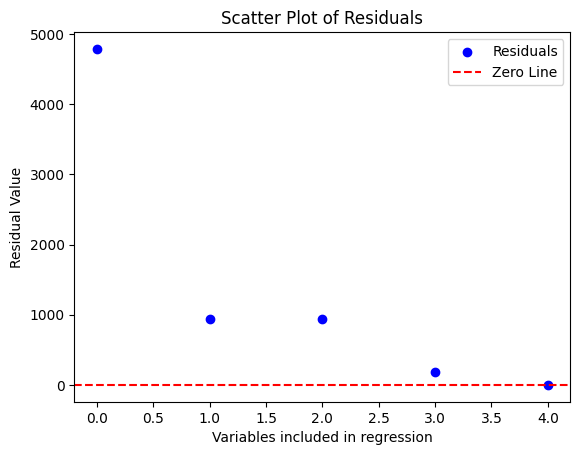
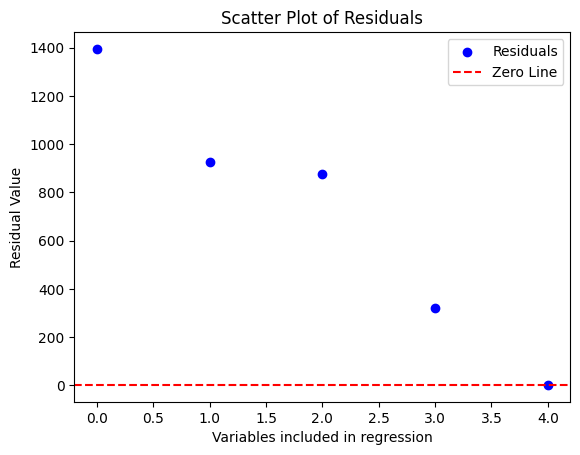
Update documentation

diff --git a/docs/searchindex.js b/docs/searchindex.js
@@ -1,1 +1,1 @@
-Search.setIndex({"alltitles": {"ANOVA": [[8, null]], "ANVOCA": [[8, "ANVOCA"]], "API Reference": [[3, null]], "Comparison with numpy": [[10, "Comparison-with-numpy"]], "Getting started": [[12, null]], "Including/excluding covariates corresponds to sweeping the variable in/out": [[11, "Including/excluding-covariates-corresponds-to-sweeping-the-variable-in/out"]], "Linear Regression": [[10, null]], "MANOVA": [[8, "MANOVA"]], "Module contents": [[6, "module-sweepystats"]], "Numerical linear algebra": [[9, null]], "One way ANOVA": [[8, "One-way-ANOVA"]], "Stepwise regression": [[11, null]], "Submodules": [[6, "submodules"]], "Sweepystats documentation": [[4, null]], "The SweepMatrix class": [[12, "The-SweepMatrix-class"]], "User Guide": [[7, null]], "k-way ANOVA": [[8, "k-way-ANOVA"]], "sweepystats": [[5, null]], "sweepystats package": [[6, null]], "sweepystats.ANOVA": [[3, "sweepystats-anova"]], "sweepystats.anova.ANOVA": [[0, null]], "sweepystats.linreg": [[3, "sweepystats-linreg"]], "sweepystats.linreg module": [[6, "module-sweepystats.linreg"]], "sweepystats.linreg.LinearRegression": [[1, null]], "sweepystats.sweep_matrix": [[3, "sweepystats-sweep-matrix"]], "sweepystats.sweep_matrix module": [[6, "module-sweepystats.sweep_matrix"]], "sweepystats.sweep_matrix.SweepMatrix": [[2, null]]}, "docnames": ["api_reference/generated/sweepystats.anova.ANOVA", "api_reference/generated/sweepystats.linreg.LinearRegression", "api_reference/generated/sweepystats.sweep_matrix.SweepMatrix", "api_reference/index", "index", "source/modules", "source/sweepystats", "user_guide/index", "user_guide/notebooks/anova", "user_guide/notebooks/linalg", "user_guide/notebooks/linreg", "user_guide/notebooks/stepreg", "user_guide/notebooks/sweepy"], "envversion": {"nbsphinx": 4, "sphinx": 64, "sphinx.domains.c": 3, "sphinx.domains.changeset": 1, "sphinx.domains.citation": 1, "sphinx.domains.cpp": 9, "sphinx.domains.index": 1, "sphinx.domains.javascript": 3, "sphinx.domains.math": 2, "sphinx.domains.python": 4, "sphinx.domains.rst": 2, "sphinx.domains.std": 2}, "filenames": ["api_reference/generated/sweepystats.anova.ANOVA.rst", "api_reference/generated/sweepystats.linreg.LinearRegression.rst", "api_reference/generated/sweepystats.sweep_matrix.SweepMatrix.rst", "api_reference/index.rst", "index.rst", "source/modules.rst", "source/sweepystats.rst", "user_guide/index.rst", "user_guide/notebooks/anova.ipynb", "user_guide/notebooks/linalg.ipynb", "user_guide/notebooks/linreg.ipynb", "user_guide/notebooks/stepreg.ipynb", "user_guide/notebooks/sweepy.ipynb"], "indexentries": {"__init__() (sweepystats.anova.anova method)": [[0, "sweepystats.anova.ANOVA.__init__", false]], "__init__() (sweepystats.linreg.linearregression method)": [[1, "sweepystats.linreg.LinearRegression.__init__", false]], "__init__() (sweepystats.sweep_matrix.sweepmatrix method)": [[2, "sweepystats.sweep_matrix.SweepMatrix.__init__", false]], "anova (class in sweepystats)": [[6, "sweepystats.ANOVA", false]], "anova (class in sweepystats.anova)": [[0, "sweepystats.anova.ANOVA", false]], "coef() (sweepystats.linearregression method)": [[6, "sweepystats.LinearRegression.coef", false]], "coef() (sweepystats.linreg.linearregression method)": [[6, "sweepystats.linreg.LinearRegression.coef", false]], "coef_std() (sweepystats.linearregression method)": [[6, "sweepystats.LinearRegression.coef_std", false]], "coef_std() (sweepystats.linreg.linearregression method)": [[6, "sweepystats.linreg.LinearRegression.coef_std", false]], "cov() (sweepystats.linearregression method)": [[6, "sweepystats.LinearRegression.cov", false]], "cov() (sweepystats.linreg.linearregression method)": [[6, "sweepystats.linreg.LinearRegression.cov", false]], "det() (sweepystats.sweep_matrix.sweepmatrix method)": [[6, "sweepystats.sweep_matrix.SweepMatrix.det", false]], "det() (sweepystats.sweepmatrix method)": [[6, "sweepystats.SweepMatrix.det", false]], "dtype (sweepystats.sweep_matrix.sweepmatrix property)": [[6, "sweepystats.sweep_matrix.SweepMatrix.dtype", false]], "dtype (sweepystats.sweepmatrix property)": [[6, "sweepystats.SweepMatrix.dtype", false]], "exclude_k() (sweepystats.linearregression method)": [[6, "sweepystats.LinearRegression.exclude_k", false]], "exclude_k() (sweepystats.linreg.linearregression method)": [[6, "sweepystats.linreg.LinearRegression.exclude_k", false]], "f_statistic() (sweepystats.anova method)": [[6, "sweepystats.ANOVA.f_statistic", false]], "fit() (sweepystats.anova method)": [[6, "sweepystats.ANOVA.fit", false]], "fit() (sweepystats.linearregression method)": [[6, "sweepystats.LinearRegression.fit", false]], "fit() (sweepystats.linreg.linearregression method)": [[6, "sweepystats.linreg.LinearRegression.fit", false]], "include_k() (sweepystats.linearregression method)": [[6, "sweepystats.LinearRegression.include_k", false]], "include_k() (sweepystats.linreg.linearregression method)": [[6, "sweepystats.linreg.LinearRegression.include_k", false]], "is_fitted() (sweepystats.linearregression method)": [[6, "sweepystats.LinearRegression.is_fitted", false]], "is_fitted() (sweepystats.linreg.linearregression method)": [[6, "sweepystats.linreg.LinearRegression.is_fitted", false]], "isposdef() (sweepystats.sweep_matrix.sweepmatrix method)": [[6, "sweepystats.sweep_matrix.SweepMatrix.isposdef", false]], "isposdef() (sweepystats.sweepmatrix method)": [[6, "sweepystats.SweepMatrix.isposdef", false]], "linearregression (class in sweepystats)": [[6, "sweepystats.LinearRegression", false]], "linearregression (class in sweepystats.linreg)": [[1, "sweepystats.linreg.LinearRegression", false], [6, "sweepystats.linreg.LinearRegression", false]], "mem_layout (sweepystats.sweep_matrix.sweepmatrix property)": [[6, "sweepystats.sweep_matrix.SweepMatrix.mem_layout", false]], "mem_layout (sweepystats.sweepmatrix property)": [[6, "sweepystats.SweepMatrix.mem_layout", false]], "module": [[6, "module-sweepystats", false], [6, "module-sweepystats.linreg", false], [6, "module-sweepystats.sweep_matrix", false]], "ndim (sweepystats.sweep_matrix.sweepmatrix property)": [[6, "sweepystats.sweep_matrix.SweepMatrix.ndim", false]], "ndim (sweepystats.sweepmatrix property)": [[6, "sweepystats.SweepMatrix.ndim", false]], "p_value() (sweepystats.anova method)": [[6, "sweepystats.ANOVA.p_value", false]], "r2() (sweepystats.linearregression method)": [[6, "sweepystats.LinearRegression.R2", false]], "r2() (sweepystats.linreg.linearregression method)": [[6, "sweepystats.linreg.LinearRegression.R2", false]], "resid() (sweepystats.linearregression method)": [[6, "sweepystats.LinearRegression.resid", false]], "resid() (sweepystats.linreg.linearregression method)": [[6, "sweepystats.linreg.LinearRegression.resid", false]], "shape (sweepystats.sweep_matrix.sweepmatrix property)": [[6, "sweepystats.sweep_matrix.SweepMatrix.shape", false]], "shape (sweepystats.sweepmatrix property)": [[6, "sweepystats.SweepMatrix.shape", false]], "sigma2() (sweepystats.linearregression method)": [[6, "sweepystats.LinearRegression.sigma2", false]], "sigma2() (sweepystats.linreg.linearregression method)": [[6, "sweepystats.linreg.LinearRegression.sigma2", false]], "size (sweepystats.sweep_matrix.sweepmatrix property)": [[6, "sweepystats.sweep_matrix.SweepMatrix.size", false]], "size (sweepystats.sweepmatrix property)": [[6, "sweepystats.SweepMatrix.size", false]], "sum_sq() (sweepystats.anova method)": [[6, "sweepystats.ANOVA.sum_sq", false]], "sweep() (sweepystats.sweep_matrix.sweepmatrix method)": [[6, "sweepystats.sweep_matrix.SweepMatrix.sweep", false]], "sweep() (sweepystats.sweepmatrix method)": [[6, "sweepystats.SweepMatrix.sweep", false]], "sweep_k() (sweepystats.sweep_matrix.sweepmatrix method)": [[6, "sweepystats.sweep_matrix.SweepMatrix.sweep_k", false]], "sweep_k() (sweepystats.sweepmatrix method)": [[6, "sweepystats.SweepMatrix.sweep_k", false]], "sweepmatrix (class in sweepystats)": [[6, "sweepystats.SweepMatrix", false]], "sweepmatrix (class in sweepystats.sweep_matrix)": [[2, "sweepystats.sweep_matrix.SweepMatrix", false], [6, "sweepystats.sweep_matrix.SweepMatrix", false]], "sweepystats": [[6, "module-sweepystats", false]], "sweepystats.linreg": [[6, "module-sweepystats.linreg", false]], "sweepystats.sweep_matrix": [[6, "module-sweepystats.sweep_matrix", false]]}, "objects": {"": [[6, 0, 0, "-", "sweepystats"]], "sweepystats": [[6, 1, 1, "", "ANOVA"], [6, 1, 1, "", "LinearRegression"], [6, 1, 1, "", "SweepMatrix"], [6, 0, 0, "-", "linreg"], [6, 0, 0, "-", "sweep_matrix"]], "sweepystats.ANOVA": [[6, 2, 1, "", "f_statistic"], [6, 2, 1, "", "fit"], [6, 2, 1, "", "p_value"], [6, 2, 1, "", "sum_sq"]], "sweepystats.LinearRegression": [[6, 2, 1, "", "R2"], [6, 2, 1, "", "coef"], [6, 2, 1, "", "coef_std"], [6, 2, 1, "", "cov"], [6, 2, 1, "", "exclude_k"], [6, 2, 1, "", "fit"], [6, 2, 1, "", "include_k"], [6, 2, 1, "", "is_fitted"], [6, 2, 1, "", "resid"], [6, 2, 1, "", "sigma2"]], "sweepystats.SweepMatrix": [[6, 2, 1, "", "det"], [6, 3, 1, "", "dtype"], [6, 2, 1, "", "isposdef"], [6, 3, 1, "", "mem_layout"], [6, 3, 1, "", "ndim"], [6, 3, 1, "", "shape"], [6, 3, 1, "", "size"], [6, 2, 1, "", "sweep"], [6, 2, 1, "", "sweep_k"]], "sweepystats.anova": [[0, 1, 1, "", "ANOVA"]], "sweepystats.anova.ANOVA": [[0, 2, 1, "", "__init__"]], "sweepystats.linreg": [[6, 1, 1, "", "LinearRegression"]], "sweepystats.linreg.LinearRegression": [[6, 2, 1, "", "R2"], [1, 2, 1, "", "__init__"], [6, 2, 1, "", "coef"], [6, 2, 1, "", "coef_std"], [6, 2, 1, "", "cov"], [6, 2, 1, "", "exclude_k"], [6, 2, 1, "", "fit"], [6, 2, 1, "", "include_k"], [6, 2, 1, "", "is_fitted"], [6, 2, 1, "", "resid"], [6, 2, 1, "", "sigma2"]], "sweepystats.sweep_matrix": [[6, 1, 1, "", "SweepMatrix"]], "sweepystats.sweep_matrix.SweepMatrix": [[2, 2, 1, "", "__init__"], [6, 2, 1, "", "det"], [6, 3, 1, "", "dtype"], [6, 2, 1, "", "isposdef"], [6, 3, 1, "", "mem_layout"], [6, 3, 1, "", "ndim"], [6, 3, 1, "", "shape"], [6, 3, 1, "", "size"], [6, 2, 1, "", "sweep"], [6, 2, 1, "", "sweep_k"]]}, "objnames": {"0": ["py", "module", "Python module"], "1": ["py", "class", "Python class"], "2": ["py", "method", "Python method"], "3": ["py", "property", "Python property"]}, "objtypes": {"0": "py:module", "1": "py:class", "2": "py:method", "3": "py:property"}, "terms": {"": [8, 9, 10, 12], "0": [4, 6, 8, 9, 10, 11, 12], "00": [8, 9, 10, 12], "00000000e": 12, "0001": 9, "00143833": 10, "00144217": 10, "00208484": 10, "00323325": 10, "00344722": 10, "00358656": 10, "00937511174625582": 11, "01": 12, "02": 12, "02886888": 10, "05": 8, "05686169": 10, "05871306": 10, "05988785": 10, "07984562357182773": 8, "079846": 8, "09983632": 10, "1": [8, 9, 10, 11, 12], "10": [9, 10, 11, 12], "100": [8, 9, 10], "11": [8, 10], "11111111e": 12, "12": [10, 11], "12265": 9, "12it": 9, "13": [8, 11], "131277": 9, "139117841711": 11, "14": 8, "145383": 9, "15": 8, "15it": 9, "17": 12, "1979": 10, "2": [6, 8, 9, 10, 11, 12], "20": [8, 11], "2025": 11, "209628882323652e": 11, "213333": 8, "2133333333333334": 8, "25": 11, "2520": 8, "2716904": 10, "29": 11, "2d": [2, 6], "2nd": 11, "3": [8, 9, 10, 11, 12], "31": 11, "3306": 10, "368889": 8, "39532418": 10, "3953241840840747": 10, "4": [8, 9, 10, 11, 12], "43543728": 11, "452513415087515e": 11, "463333": 8, "4790": 11, "48it": 9, "4th": 11, "5": [8, 9, 10, 11, 12], "53": 8, "5th": 11, "6": [4, 8, 9, 10, 11, 12], "62it": 8, "64106051": 11, "66666667e": 12, "67901235e": 12, "7": [8, 10, 11, 12], "70370370e": 12, "72690962": 11, "743393955410443e": 11, "8": [8, 10, 12], "8129989461707008": 11, "85722573e": 12, "9": [10, 12], "926667": 8, "94it": 10, "966867": 8, "966867469879485": 8, "9969400431529486": 10, "A": [0, 1, 2, 6, 8, 9, 11, 12], "For": [8, 10, 11], "If": [6, 8], "NOT": 11, "No": 12, "One": 7, "The": [2, 4, 6, 7, 8, 9, 10, 11], "To": [4, 8], "_": 10, "__init__": [0, 1, 2], "a_numpi": 12, "absorpt": 10, "accept": 8, "ad": 11, "adet": 9, "after": 11, "against": 11, "agre": 10, "ainv": 9, "akk": 12, "algebra": 7, "all": [6, 12], "allclos": 9, "alloc": 9, "alpha": 8, "alreadi": 12, "also": 12, "an": [4, 8, 9, 10, 11], "analysi": 11, "anova": [5, 6, 7], "anova_lm": 8, "anova_t": 8, "answer": [9, 10], "anvoca": 7, "api": [4, 8], "append": 11, "ar": [9, 11], "arang": 11, "arrai": [2, 6, 9, 10, 11, 12], "associ": 6, "attribut": 2, "axhlin": 11, "b": [6, 8], "background": 4, "backward": 12, "bar": 6, "base": [0, 1, 6], "beauti": 11, "becaus": [11, 12], "been": 6, "befor": [6, 12], "being": [6, 8], "beta": [6, 10, 11], "beta_cov": 10, "beta_std": 10, "between": 8, "bla": 12, "bless": 12, "blue": 11, "boldsymbol": 11, "built": 10, "c": 8, "call": 12, "can": [8, 10, 11, 12], "cannot": 12, "categor": 8, "causal": 11, "chang": 12, "check": [6, 9, 10], "choic": 11, "choleski": 9, "chosen": 11, "class": [0, 1, 2, 4, 6, 7, 10, 11], "coef": [5, 6, 10], "coef_std": [5, 6, 10], "coeffici": [6, 10, 11], "col": 6, "color": 11, "column": [2, 6, 9, 12], "common": 11, "compar": 11, "comparison": 7, "comprehens": 4, "compupt": 6, "comput": [6, 9, 10], "concept": 10, "conceptu": 10, "conduct": 8, "consid": 8, "contain": [0, 4, 6], "content": 5, "convert": [9, 12], "copi": [2, 6, 12], "correct": [9, 11], "correspond": 7, "cost": 9, "cov": [5, 6, 10], "covari": [0, 6, 7, 10], "darrai": 12, "data": [8, 9, 10, 11, 12], "datafram": [0, 6, 8], "def": 9, "default": 9, "defin": [0, 6], "definit": [6, 9], "depth": 4, "descript": 4, "det": [5, 6, 9], "detail": [4, 11], "determin": [6, 9, 10, 11], "deviat": [6, 10], "df": [0, 6, 8], "diag": [9, 10], "diagon": 12, "differ": 8, "difficult": 10, "displai": 6, "divid": 12, "do": [8, 11], "doe": [8, 11], "doesn": 10, "doubl": [2, 6, 9, 12], "dtype": [5, 6], "e": [0, 6, 8, 11], "each": [6, 8, 10], "effect": [8, 10, 11], "eig": 9, "eigenvalu": 9, "eigmin": 9, "either": 8, "element": 12, "encount": 11, "entir": [6, 11], "entri": 12, "error": 6, "estim": [6, 10], "eval": 9, "evec": 9, "exactli": 12, "examin": 11, "exampl": [8, 11], "exclud": [6, 7], "exclude_k": [5, 6], "explain": 10, "explan": 11, "explor": 11, "extract": [8, 10], "extrem": 10, "f": [6, 8, 9, 11, 12], "f_stat": 11, "f_statist": [5, 6, 8], "f_test": 11, "factor": [0, 6, 8], "fals": [6, 9, 11, 12], "first": 11, "fit": [5, 6, 8, 10, 11], "float": 9, "float64": [8, 10, 11], "flop": 9, "follow": [8, 9, 10, 11], "forc": [6, 9], "form": [10, 11], "format": 12, "formula": [0, 6, 8], "fortran": [2, 6], "forward": 12, "free": 9, "from": [8, 11, 12], "function": [4, 11], "g": [0, 6], "gener": [10, 11], "get": 7, "good": 11, "goodnight": 10, "group": [0, 6, 8], "gt": 8, "guid": 4, "h_k": 11, "ha": [9, 11], "hat": [6, 10, 11], "have": [6, 8, 10], "here": [8, 10], "how": [4, 11], "hypothesi": [8, 11], "i": [2, 4, 6, 8, 9, 10, 11, 12], "identifi": 11, "illustr": 8, "implement": [10, 11], "impli": 12, "import": [8, 9, 10, 11, 12], "improv": 11, "includ": [4, 6, 7], "include_k": [5, 6, 11], "inequ": 6, "inf": 9, "influenc": 11, "input": 12, "instanc": [10, 11], "instead": 11, "intanti": 12, "intern": 12, "introduct": 4, "inv": [6, 9, 10, 12], "invers": [6, 9, 10, 12], "is_fit": [5, 6], "isn": 11, "isposdef": [5, 6, 9], "issu": 4, "ith": 11, "its": 11, "jame": 10, "just": 11, "k": [0, 6, 7, 11, 12], "kind": 11, "know": 8, "kth": [6, 11, 12], "label": 11, "latter": 12, "least": [6, 8, 10], "legend": 11, "let": [10, 11], "level": [8, 12], "linalg": [9, 10], "line": 11, "linear": [1, 6, 7], "linearregress": [5, 6, 10, 11], "linestyl": 11, "link": 4, "linreg": 5, "list": 4, "lstsq": 10, "lt": [8, 9, 10], "mainli": 11, "major": [2, 6, 9, 12], "manova": 7, "manual": 10, "mathbf": 11, "mathemat": 4, "matplotlib": 11, "matric": [4, 12], "matrix": [6, 9, 12], "mean": 8, "mean_sq": 8, "mem_layout": [5, 6], "method": [0, 1, 2, 10, 11], "minimum": 9, "model": [0, 6, 8, 10, 11], "modifi": 12, "modul": 5, "more": 11, "mu_a": 8, "mu_b": 8, "mu_c": 8, "much": 10, "multipl": 11, "must": 12, "n": [9, 10, 11], "nan": 8, "ndim": [5, 6], "need": 9, "neg": 9, "none": [2, 6], "normal": [10, 11], "notat": 10, "note": 6, "now": 8, "np": [8, 9, 10, 11, 12], "null": 8, "number": 11, "numer": [7, 12], "numpi": [2, 4, 6, 7, 8, 9, 11, 12], "object": 6, "ol": [8, 10, 11], "one": [8, 11], "one_wai": 8, "onli": [6, 11], "oper": [0, 1, 4, 6, 9, 10, 11, 12], "order": [9, 12], "origin": [2, 6, 9, 12], "out": 7, "outcom": [0, 6, 8], "over": [2, 6, 12], "p": [8, 10, 11], "p_valu": [5, 6, 8], "packag": [4, 5, 10], "pair": 8, "panda": [0, 6, 8], "paramet": [0, 6, 10], "patsi": 8, "pd": [8, 9], "perform": [0, 1, 4, 6, 8], "place": 9, "plot": 11, "plt": 11, "posit": [6, 9], "post": 11, "pr": 8, "precis": [2, 6, 9, 12], "print": 11, "problem": 11, "process": 10, "progress": 6, "properti": [6, 11], "provid": 4, "psd": 9, "pval": 11, "pyplot": 11, "qr": 10, "question": 11, "r": 10, "r2": [5, 6, 10], "rand": 9, "randn": 11, "random": [9, 10, 11], "random_symmetric_matrix": 9, "randomli": 11, "rang": 11, "rather": 10, "re": 11, "read": 6, "recal": 9, "recov": 12, "red": 11, "reduc": 11, "redund": 11, "refer": 4, "regress": [1, 6, 7], "reject": 8, "relev": 4, "replac": 11, "repositori": 4, "reproduc": 11, "requir": [11, 12], "resid": [5, 6, 10, 11], "residu": [6, 8, 10, 11], "respons": 11, "restor": [6, 9], "result": [10, 11], "return": [6, 9], "row": [6, 12], "same": 9, "sampl": [8, 10, 11], "save": 11, "scatter": 11, "see": 11, "seed": 11, "seem": 11, "select": 11, "set": 8, "shape": [5, 6], "should": [9, 11], "show": 11, "sigma": 6, "sigma2": [5, 6, 10], "signific": [8, 11], "significantli": 11, "simpl": [8, 11], "simul": [9, 10, 11], "size": [5, 6, 9, 10, 11], "sm": 8, "so": [10, 11], "solut": 10, "some": [10, 11], "sourc": 4, "specifi": 8, "sqrt": 10, "squar": [6, 10, 11], "stackexchang": 11, "standard": [6, 10], "start": 7, "stat": 8, "statist": [4, 6, 8, 10, 11], "statsmodel": 8, "std": 10, "stepwis": 7, "storag": [2, 6], "store": [2, 6, 12], "strict": [6, 9], "string": [0, 6], "style": [2, 6], "submodul": 5, "sum": [6, 10, 11], "sum_sq": [5, 6, 8], "support": 9, "suppos": 8, "sw": [8, 9, 10, 11, 12], "sweep": [0, 1, 4, 5, 6, 7, 9, 10, 12], "sweep_k": [5, 6, 12], "sweep_matrix": 5, "sweepmatrix": [5, 6, 7, 9], "sweepystat": [8, 9, 10, 11, 12], "swept": [6, 12], "symmetr": [4, 6, 9, 12], "t": [9, 10, 11], "techniqu": 10, "term": 10, "test": [8, 10, 11], "th": [6, 11, 12], "thei": [4, 11], "them": 10, "thi": [8, 9, 10, 11, 12], "thin": [2, 6, 12], "through": 12, "time": 11, "titl": 11, "todo": 8, "tool": [10, 11], "tracker": 4, "triangl": 6, "true": [6, 9, 10, 11, 12], "try": 11, "typ": 8, "type": 8, "understand": 10, "unless": 6, "untouch": [6, 9], "unweep": 12, "upper": 6, "us": [4, 11], "usag": 4, "user": 4, "valid": 11, "valu": [6, 8, 11], "var": [6, 10], "variabl": [6, 7, 8], "varianc": 6, "verbos": [6, 9, 12], "version": 4, "visual": 11, "wai": [0, 6, 7], "want": [8, 11], "warn": [11, 12], "we": [6, 8, 10, 11, 12], "well": 4, "what": 10, "where": 9, "whether": [6, 8, 10, 11], "which": [8, 12], "within": 6, "without": 10, "work": [4, 11], "wrapper": [2, 6, 12], "x": [1, 6, 8, 10, 11], "xlabel": 11, "y": [0, 1, 6, 8, 10, 11], "yhat": 6, "ylabel": 11, "you": 11, "zero": 11}, "titles": ["sweepystats.anova.ANOVA", "sweepystats.linreg.LinearRegression", "sweepystats.sweep_matrix.SweepMatrix", "API Reference", "Sweepystats documentation", "sweepystats", "sweepystats package", "User Guide", "ANOVA", "Numerical linear algebra", "Linear Regression", "Stepwise regression", "Getting started"], "titleterms": {"One": 8, "The": 12, "algebra": 9, "anova": [0, 3, 8], "anvoca": 8, "api": 3, "class": 12, "comparison": 10, "content": 6, "correspond": 11, "covari": 11, "document": 4, "exclud": 11, "get": 12, "guid": 7, "includ": 11, "k": 8, "linear": [9, 10], "linearregress": 1, "linreg": [1, 3, 6], "manova": 8, "modul": 6, "numer": 9, "numpi": 10, "out": 11, "packag": 6, "refer": 3, "regress": [10, 11], "start": 12, "stepwis": 11, "submodul": 6, "sweep": 11, "sweep_matrix": [2, 3, 6], "sweepmatrix": [2, 12], "sweepystat": [0, 1, 2, 3, 4, 5, 6], "user": 7, "variabl": 11, "wai": 8}})
+Search.setIndex({"alltitles": {"ANOVA": [[8, null]], "ANVOCA": [[8, "ANVOCA"]], "API Reference": [[3, null]], "Comparison with numpy": [[10, "Comparison-with-numpy"]], "Getting started": [[12, null]], "Including/excluding covariates corresponds to sweeping the variable in/out": [[11, "Including/excluding-covariates-corresponds-to-sweeping-the-variable-in/out"]], "Linear Regression": [[10, null]], "MANOVA": [[8, "MANOVA"]], "Module contents": [[6, "module-sweepystats"]], "Numerical linear algebra": [[9, null]], "One way ANOVA": [[8, "One-way-ANOVA"]], "Stepwise regression": [[11, null]], "Submodules": [[6, "submodules"]], "Sweepystats documentation": [[4, null]], "The SweepMatrix class": [[12, "The-SweepMatrix-class"]], "User Guide": [[7, null]], "k-way ANOVA": [[8, "k-way-ANOVA"]], "sweepystats": [[5, null]], "sweepystats package": [[6, null]], "sweepystats.ANOVA": [[3, "sweepystats-anova"]], "sweepystats.anova.ANOVA": [[0, null]], "sweepystats.linreg": [[3, "sweepystats-linreg"]], "sweepystats.linreg module": [[6, "module-sweepystats.linreg"]], "sweepystats.linreg.LinearRegression": [[1, null]], "sweepystats.sweep_matrix": [[3, "sweepystats-sweep-matrix"]], "sweepystats.sweep_matrix module": [[6, "module-sweepystats.sweep_matrix"]], "sweepystats.sweep_matrix.SweepMatrix": [[2, null]]}, "docnames": ["api_reference/generated/sweepystats.anova.ANOVA", "api_reference/generated/sweepystats.linreg.LinearRegression", "api_reference/generated/sweepystats.sweep_matrix.SweepMatrix", "api_reference/index", "index", "source/modules", "source/sweepystats", "user_guide/index", "user_guide/notebooks/anova", "user_guide/notebooks/linalg", "user_guide/notebooks/linreg", "user_guide/notebooks/stepreg", "user_guide/notebooks/sweepy"], "envversion": {"nbsphinx": 4, "sphinx": 64, "sphinx.domains.c": 3, "sphinx.domains.changeset": 1, "sphinx.domains.citation": 1, "sphinx.domains.cpp": 9, "sphinx.domains.index": 1, "sphinx.domains.javascript": 3, "sphinx.domains.math": 2, "sphinx.domains.python": 4, "sphinx.domains.rst": 2, "sphinx.domains.std": 2}, "filenames": ["api_reference/generated/sweepystats.anova.ANOVA.rst", "api_reference/generated/sweepystats.linreg.LinearRegression.rst", "api_reference/generated/sweepystats.sweep_matrix.SweepMatrix.rst", "api_reference/index.rst", "index.rst", "source/modules.rst", "source/sweepystats.rst", "user_guide/index.rst", "user_guide/notebooks/anova.ipynb", "user_guide/notebooks/linalg.ipynb", "user_guide/notebooks/linreg.ipynb", "user_guide/notebooks/stepreg.ipynb", "user_guide/notebooks/sweepy.ipynb"], "indexentries": {"__init__() (sweepystats.anova.anova method)": [[0, "sweepystats.anova.ANOVA.__init__", false]], "__init__() (sweepystats.linreg.linearregression method)": [[1, "sweepystats.linreg.LinearRegression.__init__", false]], "__init__() (sweepystats.sweep_matrix.sweepmatrix method)": [[2, "sweepystats.sweep_matrix.SweepMatrix.__init__", false]], "anova (class in sweepystats)": [[6, "sweepystats.ANOVA", false]], "anova (class in sweepystats.anova)": [[0, "sweepystats.anova.ANOVA", false]], "coef() (sweepystats.linearregression method)": [[6, "sweepystats.LinearRegression.coef", false]], "coef() (sweepystats.linreg.linearregression method)": [[6, "sweepystats.linreg.LinearRegression.coef", false]], "coef_std() (sweepystats.linearregression method)": [[6, "sweepystats.LinearRegression.coef_std", false]], "coef_std() (sweepystats.linreg.linearregression method)": [[6, "sweepystats.linreg.LinearRegression.coef_std", false]], "cov() (sweepystats.linearregression method)": [[6, "sweepystats.LinearRegression.cov", false]], "cov() (sweepystats.linreg.linearregression method)": [[6, "sweepystats.linreg.LinearRegression.cov", false]], "det() (sweepystats.sweep_matrix.sweepmatrix method)": [[6, "sweepystats.sweep_matrix.SweepMatrix.det", false]], "det() (sweepystats.sweepmatrix method)": [[6, "sweepystats.SweepMatrix.det", false]], "dtype (sweepystats.sweep_matrix.sweepmatrix property)": [[6, "sweepystats.sweep_matrix.SweepMatrix.dtype", false]], "dtype (sweepystats.sweepmatrix property)": [[6, "sweepystats.SweepMatrix.dtype", false]], "exclude_k() (sweepystats.linearregression method)": [[6, "sweepystats.LinearRegression.exclude_k", false]], "exclude_k() (sweepystats.linreg.linearregression method)": [[6, "sweepystats.linreg.LinearRegression.exclude_k", false]], "f_statistic() (sweepystats.anova method)": [[6, "sweepystats.ANOVA.f_statistic", false]], "fit() (sweepystats.anova method)": [[6, "sweepystats.ANOVA.fit", false]], "fit() (sweepystats.linearregression method)": [[6, "sweepystats.LinearRegression.fit", false]], "fit() (sweepystats.linreg.linearregression method)": [[6, "sweepystats.linreg.LinearRegression.fit", false]], "include_k() (sweepystats.linearregression method)": [[6, "sweepystats.LinearRegression.include_k", false]], "include_k() (sweepystats.linreg.linearregression method)": [[6, "sweepystats.linreg.LinearRegression.include_k", false]], "is_fitted() (sweepystats.linearregression method)": [[6, "sweepystats.LinearRegression.is_fitted", false]], "is_fitted() (sweepystats.linreg.linearregression method)": [[6, "sweepystats.linreg.LinearRegression.is_fitted", false]], "isposdef() (sweepystats.sweep_matrix.sweepmatrix method)": [[6, "sweepystats.sweep_matrix.SweepMatrix.isposdef", false]], "isposdef() (sweepystats.sweepmatrix method)": [[6, "sweepystats.SweepMatrix.isposdef", false]], "linearregression (class in sweepystats)": [[6, "sweepystats.LinearRegression", false]], "linearregression (class in sweepystats.linreg)": [[1, "sweepystats.linreg.LinearRegression", false], [6, "sweepystats.linreg.LinearRegression", false]], "mem_layout (sweepystats.sweep_matrix.sweepmatrix property)": [[6, "sweepystats.sweep_matrix.SweepMatrix.mem_layout", false]], "mem_layout (sweepystats.sweepmatrix property)": [[6, "sweepystats.SweepMatrix.mem_layout", false]], "module": [[6, "module-sweepystats", false], [6, "module-sweepystats.linreg", false], [6, "module-sweepystats.sweep_matrix", false]], "ndim (sweepystats.sweep_matrix.sweepmatrix property)": [[6, "sweepystats.sweep_matrix.SweepMatrix.ndim", false]], "ndim (sweepystats.sweepmatrix property)": [[6, "sweepystats.SweepMatrix.ndim", false]], "p_value() (sweepystats.anova method)": [[6, "sweepystats.ANOVA.p_value", false]], "r2() (sweepystats.linearregression method)": [[6, "sweepystats.LinearRegression.R2", false]], "r2() (sweepystats.linreg.linearregression method)": [[6, "sweepystats.linreg.LinearRegression.R2", false]], "resid() (sweepystats.linearregression method)": [[6, "sweepystats.LinearRegression.resid", false]], "resid() (sweepystats.linreg.linearregression method)": [[6, "sweepystats.linreg.LinearRegression.resid", false]], "shape (sweepystats.sweep_matrix.sweepmatrix property)": [[6, "sweepystats.sweep_matrix.SweepMatrix.shape", false]], "shape (sweepystats.sweepmatrix property)": [[6, "sweepystats.SweepMatrix.shape", false]], "sigma2() (sweepystats.linearregression method)": [[6, "sweepystats.LinearRegression.sigma2", false]], "sigma2() (sweepystats.linreg.linearregression method)": [[6, "sweepystats.linreg.LinearRegression.sigma2", false]], "size (sweepystats.sweep_matrix.sweepmatrix property)": [[6, "sweepystats.sweep_matrix.SweepMatrix.size", false]], "size (sweepystats.sweepmatrix property)": [[6, "sweepystats.SweepMatrix.size", false]], "sum_sq() (sweepystats.anova method)": [[6, "sweepystats.ANOVA.sum_sq", false]], "sweep() (sweepystats.sweep_matrix.sweepmatrix method)": [[6, "sweepystats.sweep_matrix.SweepMatrix.sweep", false]], "sweep() (sweepystats.sweepmatrix method)": [[6, "sweepystats.SweepMatrix.sweep", false]], "sweep_k() (sweepystats.sweep_matrix.sweepmatrix method)": [[6, "sweepystats.sweep_matrix.SweepMatrix.sweep_k", false]], "sweep_k() (sweepystats.sweepmatrix method)": [[6, "sweepystats.SweepMatrix.sweep_k", false]], "sweepmatrix (class in sweepystats)": [[6, "sweepystats.SweepMatrix", false]], "sweepmatrix (class in sweepystats.sweep_matrix)": [[2, "sweepystats.sweep_matrix.SweepMatrix", false], [6, "sweepystats.sweep_matrix.SweepMatrix", false]], "sweepystats": [[6, "module-sweepystats", false]], "sweepystats.linreg": [[6, "module-sweepystats.linreg", false]], "sweepystats.sweep_matrix": [[6, "module-sweepystats.sweep_matrix", false]]}, "objects": {"": [[6, 0, 0, "-", "sweepystats"]], "sweepystats": [[6, 1, 1, "", "ANOVA"], [6, 1, 1, "", "LinearRegression"], [6, 1, 1, "", "SweepMatrix"], [6, 0, 0, "-", "linreg"], [6, 0, 0, "-", "sweep_matrix"]], "sweepystats.ANOVA": [[6, 2, 1, "", "f_statistic"], [6, 2, 1, "", "fit"], [6, 2, 1, "", "p_value"], [6, 2, 1, "", "sum_sq"]], "sweepystats.LinearRegression": [[6, 2, 1, "", "R2"], [6, 2, 1, "", "coef"], [6, 2, 1, "", "coef_std"], [6, 2, 1, "", "cov"], [6, 2, 1, "", "exclude_k"], [6, 2, 1, "", "fit"], [6, 2, 1, "", "include_k"], [6, 2, 1, "", "is_fitted"], [6, 2, 1, "", "resid"], [6, 2, 1, "", "sigma2"]], "sweepystats.SweepMatrix": [[6, 2, 1, "", "det"], [6, 3, 1, "", "dtype"], [6, 2, 1, "", "isposdef"], [6, 3, 1, "", "mem_layout"], [6, 3, 1, "", "ndim"], [6, 3, 1, "", "shape"], [6, 3, 1, "", "size"], [6, 2, 1, "", "sweep"], [6, 2, 1, "", "sweep_k"]], "sweepystats.anova": [[0, 1, 1, "", "ANOVA"]], "sweepystats.anova.ANOVA": [[0, 2, 1, "", "__init__"]], "sweepystats.linreg": [[6, 1, 1, "", "LinearRegression"]], "sweepystats.linreg.LinearRegression": [[6, 2, 1, "", "R2"], [1, 2, 1, "", "__init__"], [6, 2, 1, "", "coef"], [6, 2, 1, "", "coef_std"], [6, 2, 1, "", "cov"], [6, 2, 1, "", "exclude_k"], [6, 2, 1, "", "fit"], [6, 2, 1, "", "include_k"], [6, 2, 1, "", "is_fitted"], [6, 2, 1, "", "resid"], [6, 2, 1, "", "sigma2"]], "sweepystats.sweep_matrix": [[6, 1, 1, "", "SweepMatrix"]], "sweepystats.sweep_matrix.SweepMatrix": [[2, 2, 1, "", "__init__"], [6, 2, 1, "", "det"], [6, 3, 1, "", "dtype"], [6, 2, 1, "", "isposdef"], [6, 3, 1, "", "mem_layout"], [6, 3, 1, "", "ndim"], [6, 3, 1, "", "shape"], [6, 3, 1, "", "size"], [6, 2, 1, "", "sweep"], [6, 2, 1, "", "sweep_k"]]}, "objnames": {"0": ["py", "module", "Python module"], "1": ["py", "class", "Python class"], "2": ["py", "method", "Python method"], "3": ["py", "property", "Python property"]}, "objtypes": {"0": "py:module", "1": "py:class", "2": "py:method", "3": "py:property"}, "terms": {"": [8, 9, 10, 12], "0": [4, 6, 8, 9, 10, 11, 12], "00": [8, 9, 10, 12], "00000000e": 12, "0001": 9, "00143833": 10, "00144217": 10, "00208484": 10, "00323325": 10, "00344722": 10, "00358656": 10, "01": 12, "02": 12, "02886888": 10, "05": 8, "05686169": 10, "05871306": 10, "05988785": 10, "062122146792274e": 11, "07984562357182773": 8, "079846": 8, "09983632": 10, "1": [8, 9, 10, 11, 12], "10": [9, 10, 11, 12], "100": [8, 9, 10], "11": [8, 10], "11111111e": 12, "12": 10, "12265": 9, "123": 11, "12it": 9, "13": 8, "131277": 9, "1394": 11, "14": 8, "145383": 9, "15": 8, "15it": 9, "16": 11, "17": 12, "18": 11, "19236569475852966": 11, "1979": 10, "1st": 11, "2": [6, 8, 9, 10, 11, 12], "20": [8, 11], "213333": 8, "2133333333333334": 8, "24": 11, "2520": 8, "2716904": 10, "2d": [2, 6], "2nd": 11, "3": [8, 9, 10, 11, 12], "3306": 10, "343646064572416e": 11, "3565581860448": 11, "368889": 8, "39532418": 10, "3953241840840747": 10, "4": [8, 9, 10, 11, 12], "463333": 8, "4648260563197989": 11, "48it": 9, "4th": 11, "5": [8, 9, 10, 11, 12], "53": 8, "5600761098077415e": 11, "5th": 11, "6": [4, 8, 9, 10, 11, 12], "62it": 8, "64205469": 11, "66666667e": 12, "67901235e": 12, "7": [8, 10, 11, 12], "70370370e": 12, "71226464": 11, "8": [8, 10, 11, 12], "85722573e": 12, "9": [10, 11, 12], "926667": 8, "94it": 10, "966867": 8, "966867469879485": 8, "97788793": 11, "9969400431529486": 10, "A": [0, 1, 2, 6, 8, 9, 11, 12], "For": [8, 10, 11], "If": [6, 8], "NOT": 11, "No": 12, "One": 7, "The": [2, 4, 6, 7, 8, 9, 10, 11], "To": [4, 8], "_": 10, "__init__": [0, 1, 2], "a_numpi": 12, "absorpt": 10, "accept": 8, "ad": 11, "adet": 9, "after": 11, "against": 11, "agre": 10, "ainv": 9, "akk": 12, "algebra": 7, "all": [6, 12], "allclos": 9, "alloc": 9, "alpha": 8, "alreadi": 12, "also": 12, "an": [4, 8, 9, 10, 11], "analysi": 11, "anova": [5, 6, 7], "anova_lm": 8, "anova_t": 8, "answer": [9, 10], "anvoca": 7, "api": [4, 8], "append": 11, "ar": [9, 11], "arang": 11, "arrai": [2, 6, 9, 10, 11, 12], "associ": 6, "attribut": 2, "axhlin": 11, "b": [6, 8], "background": 4, "backward": 12, "bar": 6, "base": [0, 1, 6], "beauti": 11, "becaus": [11, 12], "been": 6, "befor": [6, 12], "being": [6, 8], "beta": [6, 10, 11], "beta_cov": 10, "beta_std": 10, "between": 8, "bla": 12, "bless": 12, "blue": 11, "boldsymbol": 11, "built": 10, "c": 8, "call": 12, "can": [8, 10, 11, 12], "cannot": 12, "categor": 8, "causal": 11, "chang": 12, "check": [6, 9, 10], "choic": 11, "choleski": 9, "chosen": 11, "class": [0, 1, 2, 4, 6, 7, 10, 11], "coef": [5, 6, 10], "coef_std": [5, 6, 10], "coeffici": [6, 10, 11], "col": 6, "color": 11, "column": [2, 6, 9, 12], "common": 11, "compar": 11, "comparison": 7, "complet": 11, "comprehens": 4, "compupt": 6, "comput": [6, 9, 10], "concept": 10, "conceptu": 10, "conduct": 8, "consid": 8, "contain": [0, 4, 6], "content": 5, "convert": [9, 12], "copi": [2, 6, 12], "correct": [9, 11], "correspond": 7, "cost": 9, "cov": [5, 6, 10], "covari": [0, 6, 7, 10], "darrai": 12, "data": [8, 9, 10, 11, 12], "datafram": [0, 6, 8], "def": 9, "default": 9, "defin": [0, 6], "definit": [6, 9], "depth": 4, "descript": 4, "det": [5, 6, 9], "detail": [4, 11], "determin": [6, 9, 10, 11], "deviat": [6, 10], "df": [0, 6, 8], "diag": [9, 10], "diagon": 12, "differ": 8, "difficult": 10, "displai": 6, "divid": 12, "do": [8, 11], "doe": [8, 11], "doesn": 10, "doubl": [2, 6, 9, 12], "dtype": [5, 6], "e": [0, 6, 8, 11], "each": [6, 8, 10], "effect": [8, 10, 11], "eig": 9, "eigenvalu": 9, "eigmin": 9, "either": 8, "element": 12, "encount": 11, "entir": [6, 11], "entri": 12, "error": [6, 11], "estim": [6, 10], "eval": 9, "evec": 9, "exactli": 12, "examin": 11, "exampl": [8, 11], "exclud": [6, 7], "exclude_k": [5, 6], "explain": 10, "explan": 11, "explor": 11, "extract": [8, 10], "extrem": 10, "f": [6, 8, 9, 11, 12], "f_stat": 11, "f_statist": [5, 6, 8], "f_test": 11, "factor": [0, 6, 8], "fals": [6, 9, 11, 12], "first": 11, "fit": [5, 6, 8, 10, 11], "float": 9, "float64": [8, 10, 11], "flop": 9, "follow": [8, 9, 10, 11], "forc": [6, 9], "form": [10, 11], "format": 12, "formula": [0, 6, 8], "fortran": [2, 6], "forward": 12, "free": 9, "from": [8, 11, 12], "function": [4, 11], "g": [0, 6], "gener": [10, 11], "get": 7, "good": 11, "goodnight": 10, "group": [0, 6, 8], "gt": 8, "guid": 4, "h_k": 11, "ha": [9, 11], "hat": [6, 10, 11], "have": [6, 8, 10], "here": [8, 10], "how": [4, 11], "hypothesi": [8, 11], "i": [2, 4, 6, 8, 9, 10, 11, 12], "identifi": 11, "illustr": 8, "implement": [10, 11], "impli": 12, "import": [8, 9, 10, 11, 12], "improv": 11, "includ": [4, 6, 7], "include_k": [5, 6, 11], "inequ": 6, "inf": 9, "influenc": 11, "input": 12, "instanc": [10, 11], "instead": 11, "intanti": 12, "intern": 12, "introduct": 4, "inv": [6, 9, 10, 12], "invers": [6, 9, 10, 12], "is_fit": [5, 6], "isn": 11, "isposdef": [5, 6, 9], "issu": 4, "ith": 11, "its": 11, "jame": 10, "just": 11, "k": [0, 6, 7, 11, 12], "kind": 11, "know": 8, "kth": [6, 11, 12], "label": 11, "latter": 12, "least": [6, 8, 10], "legend": 11, "let": [10, 11], "level": [8, 12], "linalg": [9, 10], "line": 11, "linear": [1, 6, 7], "linearregress": [5, 6, 10, 11], "linestyl": 11, "link": 4, "linreg": 5, "list": 4, "lstsq": 10, "lt": [8, 9, 10], "mainli": 11, "major": [2, 6, 9, 12], "manova": 7, "manual": 10, "mathbf": 11, "mathemat": 4, "matplotlib": 11, "matric": [4, 12], "matrix": [6, 9, 12], "mean": 8, "mean_sq": 8, "mem_layout": [5, 6], "method": [0, 1, 2, 10, 11], "minimum": 9, "model": [0, 6, 8, 10, 11], "modifi": 12, "modul": 5, "more": 11, "mu_a": 8, "mu_b": 8, "mu_c": 8, "much": 10, "multipl": 11, "must": 12, "n": [9, 10, 11], "nan": 8, "ndim": [5, 6], "need": 9, "neg": 9, "none": [2, 6], "normal": [10, 11], "notat": 10, "note": [6, 12], "now": 8, "np": [8, 9, 10, 11, 12], "null": 8, "number": 11, "numer": [7, 12], "numpi": [2, 4, 6, 7, 8, 9, 11, 12], "object": 6, "ol": [8, 10, 11], "one": [8, 11], "one_wai": 8, "onli": [6, 11], "oper": [0, 1, 4, 6, 9, 10, 11, 12], "order": [9, 12], "origin": [2, 6, 9, 12], "out": 7, "outcom": [0, 6, 8], "over": [2, 6, 12], "p": [8, 10, 11], "p_valu": [5, 6, 8], "packag": [4, 5, 10], "pair": 8, "panda": [0, 6, 8], "paramet": [0, 6, 10], "patsi": 8, "pd": [8, 9], "perform": [0, 1, 4, 6, 8], "place": 9, "plot": 11, "plt": 11, "posit": [6, 9], "post": 11, "pr": 8, "precis": [2, 6, 9, 12], "print": 11, "problem": 11, "process": 10, "progress": 6, "properti": [6, 11], "provid": 4, "psd": 9, "pval": 11, "pyplot": 11, "qr": 10, "question": 11, "r": 10, "r2": [5, 6, 10], "rand": 9, "randn": 11, "random": [9, 10, 11], "random_symmetric_matrix": 9, "randomli": 11, "rang": 11, "rather": 10, "re": 11, "read": 6, "recal": 9, "recov": 12, "red": 11, "reduc": 11, "redund": 11, "refer": 4, "regress": [1, 6, 7], "reject": 8, "relev": 4, "replac": 11, "repositori": 4, "reproduc": 11, "requir": [11, 12], "resid": [5, 6, 10, 11], "residu": [6, 8, 10, 11], "respons": 11, "restor": [6, 9], "result": [10, 11], "return": [6, 9], "row": [6, 12], "same": 9, "sampl": [8, 10, 11], "save": 11, "scatter": 11, "see": 11, "seed": 11, "seem": 11, "select": 11, "set": 8, "shape": [5, 6], "should": [9, 11], "show": 11, "sigma": 6, "sigma2": [5, 6, 10], "signific": [8, 11], "significantli": 11, "simpl": [8, 11], "simul": [9, 10, 11], "size": [5, 6, 9, 10, 11], "sm": 8, "so": [10, 11], "solut": 10, "some": [10, 11], "sourc": 4, "specifi": 8, "sqrt": 10, "squar": [6, 10, 11], "stackexchang": 11, "standard": [6, 10], "start": 7, "stat": 8, "statist": [4, 6, 8, 10, 11], "statsmodel": 8, "std": 10, "stepwis": 7, "storag": [2, 6], "store": [2, 6, 12], "strict": [6, 9], "string": [0, 6], "style": [2, 6], "submodul": 5, "sum": [6, 10, 11], "sum_sq": [5, 6, 8], "support": 9, "suppos": 8, "sw": [8, 9, 10, 11, 12], "sweep": [0, 1, 4, 5, 6, 7, 9, 10, 12], "sweep_k": [5, 6, 12], "sweep_matrix": 5, "sweepmatrix": [5, 6, 7, 9], "sweepystat": [8, 9, 10, 11, 12], "swept": [6, 12], "symmetr": [4, 6, 9, 12], "t": [9, 10, 11], "techniqu": 10, "term": 10, "test": [8, 10, 11], "th": [6, 11, 12], "thei": [4, 11], "them": 10, "thi": [8, 9, 10, 11, 12], "thin": [2, 6, 12], "through": 12, "time": 11, "titl": 11, "todo": 8, "tool": [10, 11], "tracker": 4, "triangl": 6, "true": [6, 9, 10, 11, 12], "try": 11, "typ": 8, "type": 8, "understand": 10, "unless": 6, "untouch": [6, 9], "unweep": 12, "upper": 6, "us": [4, 11], "usag": 4, "user": 4, "valid": 11, "valu": [6, 8, 11], "var": [6, 10], "variabl": [6, 7, 8], "varianc": 6, "verbos": [6, 9, 12], "version": 4, "visual": 11, "wa": 11, "wai": [0, 6, 7], "want": [8, 11], "warn": 11, "we": [6, 8, 10, 11, 12], "well": 4, "what": 10, "where": 9, "whether": [6, 8, 10, 11], "which": [8, 12], "while": 11, "within": 6, "without": 10, "work": [4, 11], "wrapper": [2, 6, 12], "x": [1, 6, 8, 10, 11], "xlabel": 11, "y": [0, 1, 6, 8, 10, 11], "yhat": 6, "ylabel": 11, "you": 11, "zero": 11}, "titles": ["sweepystats.anova.ANOVA", "sweepystats.linreg.LinearRegression", "sweepystats.sweep_matrix.SweepMatrix", "API Reference", "Sweepystats documentation", "sweepystats", "sweepystats package", "User Guide", "ANOVA", "Numerical linear algebra", "Linear Regression", "Stepwise regression", "Getting started"], "titleterms": {"One": 8, "The": 12, "algebra": 9, "anova": [0, 3, 8], "anvoca": 8, "api": 3, "class": 12, "comparison": 10, "content": 6, "correspond": 11, "covari": 11, "document": 4, "exclud": 11, "get": 12, "guid": 7, "includ": 11, "k": 8, "linear": [9, 10], "linearregress": 1, "linreg": [1, 3, 6], "manova": 8, "modul": 6, "numer": 9, "numpi": 10, "out": 11, "packag": 6, "refer": 3, "regress": [10, 11], "start": 12, "stepwis": 11, "submodul": 6, "sweep": 11, "sweep_matrix": [2, 3, 6], "sweepmatrix": [2, 12], "sweepystat": [0, 1, 2, 3, 4, 5, 6], "user": 7, "variabl": 11, "wai": 8}})

diff --git a/docs/user_guide/notebooks/stepreg.html b/docs/user_guide/notebooks/stepreg.html
@@ -381,7 +381,7 @@ import numpy as np
 </pre></div>
 </div>
 <div class="input_area highlight-ipython3 notranslate"><div class="highlight"><pre><span></span>n, p, k = 20, 5, 3 # number of samples, covariates, causal covariates
-np.random.seed(2025) # for reproducibility
+np.random.seed(123) # for reproducibility
 X = np.random.normal(n, p, size=(n, p))
 beta = np.zeros(p)
 beta[np.random.choice(np.arange(p), size=k, replace=False)] = np.random.randn(k)
@@ -424,7 +424,7 @@ y = X @ beta + np.random.normal()
 </div>
 <div class="output_area docutils container">
 <div class="highlight"><pre>
-np.float64(4790.139117841711)
+np.float64(1394.3565581860448)
 </pre></div></div>
 </div>
 <p>Lets try sweeping in variables one at a time (i.e. including more and more variables in multiple regression) and examine the resulting sum of squares residual <span class="math notranslate nohighlight">\(\|\mathbf{y} - \hat{\mathbf{y}}\|^2\)</span></p>
@@ -462,9 +462,9 @@ plt.show()
 <img alt="../../_images/user_guide_notebooks_stepreg_14_0.png" src="../../_images/user_guide_notebooks_stepreg_14_0.png" />
 </div>
 </div>
-<p>So it seems adding the 2nd and 4th variable improved model fit significantly (by reducing sum-of-squared residual). How do we statistically determine whether they are redundant? We can test the hypothesis <span class="math notranslate nohighlight">\(H_k = 0\)</span> using an F-test:</p>
+<p>So it seems adding the 2nd, 4th, and 5th variable improved model fit significantly (by reducing sum-of-squared residual). How do we statistically determine whether they are redundant? We can test the hypothesis <span class="math notranslate nohighlight">\(H_k = 0\)</span> using an F-test:</p>
 <div class="nbinput docutils container">
-<div class="prompt highlight-none notranslate"><div class="highlight"><pre><span></span>[12]:
+<div class="prompt highlight-none notranslate"><div class="highlight"><pre><span></span>[8]:
 </pre></div>
 </div>
 <div class="input_area highlight-ipython3 notranslate"><div class="highlight"><pre><span></span># test whether kth variable is significant
@@ -479,16 +479,16 @@ for k in range(p):
 </div>
 <div class="output_area docutils container">
 <div class="highlight"><pre>
-Variable 0 has p-value 0.8129989461707008
-Variable 1 has p-value 3.209628882323652e-31
-Variable 2 has p-value 0.00937511174625582
-Variable 3 has p-value 6.452513415087515e-29
-Variable 4 has p-value 4.743393955410443e-25
+Variable 0 has p-value 9.062122146792274e-24
+Variable 1 has p-value 0.4648260563197989
+Variable 2 has p-value 0.19236569475852966
+Variable 3 has p-value 1.5600761098077415e-16
+Variable 4 has p-value 7.343646064572416e-18
 </pre></div></div>
 </div>
-<p>So the 2nd, 4th, and 5th variable is significant. We can compare this against the true beta coefficient:</p>
+<p>So the 1st, 4th, and 5th variable is significant. We can compare this against the true beta coefficient:</p>
 <div class="nbinput docutils container">
-<div class="prompt highlight-none notranslate"><div class="highlight"><pre><span></span>[13]:
+<div class="prompt highlight-none notranslate"><div class="highlight"><pre><span></span>[9]:
 </pre></div>
 </div>
 <div class="input_area highlight-ipython3 notranslate"><div class="highlight"><pre><span></span>beta
@@ -496,15 +496,15 @@ Variable 4 has p-value 4.743393955410443e-25
 </div>
 </div>
 <div class="nboutput nblast docutils container">
-<div class="prompt highlight-none notranslate"><div class="highlight"><pre><span></span>[13]:
+<div class="prompt highlight-none notranslate"><div class="highlight"><pre><span></span>[9]:
 </pre></div>
 </div>
 <div class="output_area docutils container">
 <div class="highlight"><pre>
-array([ 0.        ,  1.72690962,  0.        ,  1.43543728, -0.64106051])
+array([-1.97788793,  0.        ,  0.        ,  0.64205469,  0.71226464])
 </pre></div></div>
 </div>
-<p>So in this simple example, stepwise regression using F-test worked in identifying the correct model.</p>
+<p>So in this simple example, stepwise regression using F-test worked in identifying the correct model, while visually examining the improvement in residual error was not completely correct!</p>
 </section>
 </section>
 

diff --git a/docs/user_guide/notebooks/sweepy.html b/docs/user_guide/notebooks/sweepy.html
@@ -455,7 +455,8 @@ SweepMatrix(array([[10.,  2.,  3.],
        [ 3.,  6.,  9.]]))
 </pre></div></div>
 </div>
-<p>We can also sweep a on the <code class="docutils literal notranslate"><span class="pre">k</span></code>th diagonal element</p>
+<div class="alert alert-block alert-info"><p>NOTE: Because the sweep operation divides the k-th row/column of A by Akk, the diagonal entry <strong>cannot be 0</strong> (exactly or numerically) before it is swept!</p>
+</div><p>We can also sweep a on the <code class="docutils literal notranslate"><span class="pre">k</span></code>th diagonal element</p>
 <div class="nbinput docutils container">
 <div class="prompt highlight-none notranslate"><div class="highlight"><pre><span></span>[6]:
 </pre></div>
@@ -495,10 +496,6 @@ SweepMatrix(array([[10.,  2.,  3.],
        [ 2.,  5.,  6.],
        [ 3.,  6.,  9.]]))
 </pre></div></div>
-</div>
-<p>!!! warning</p>
-<div class="highlight-none notranslate"><div class="highlight"><pre><span></span>Because the sweep operation divides the `k`th row/column of A by `Akk`, the diagonal entry **cannot be 0** (exactly or numerically) before it is swept!
-</pre></div>
 </div>
 </section>
 </section>
